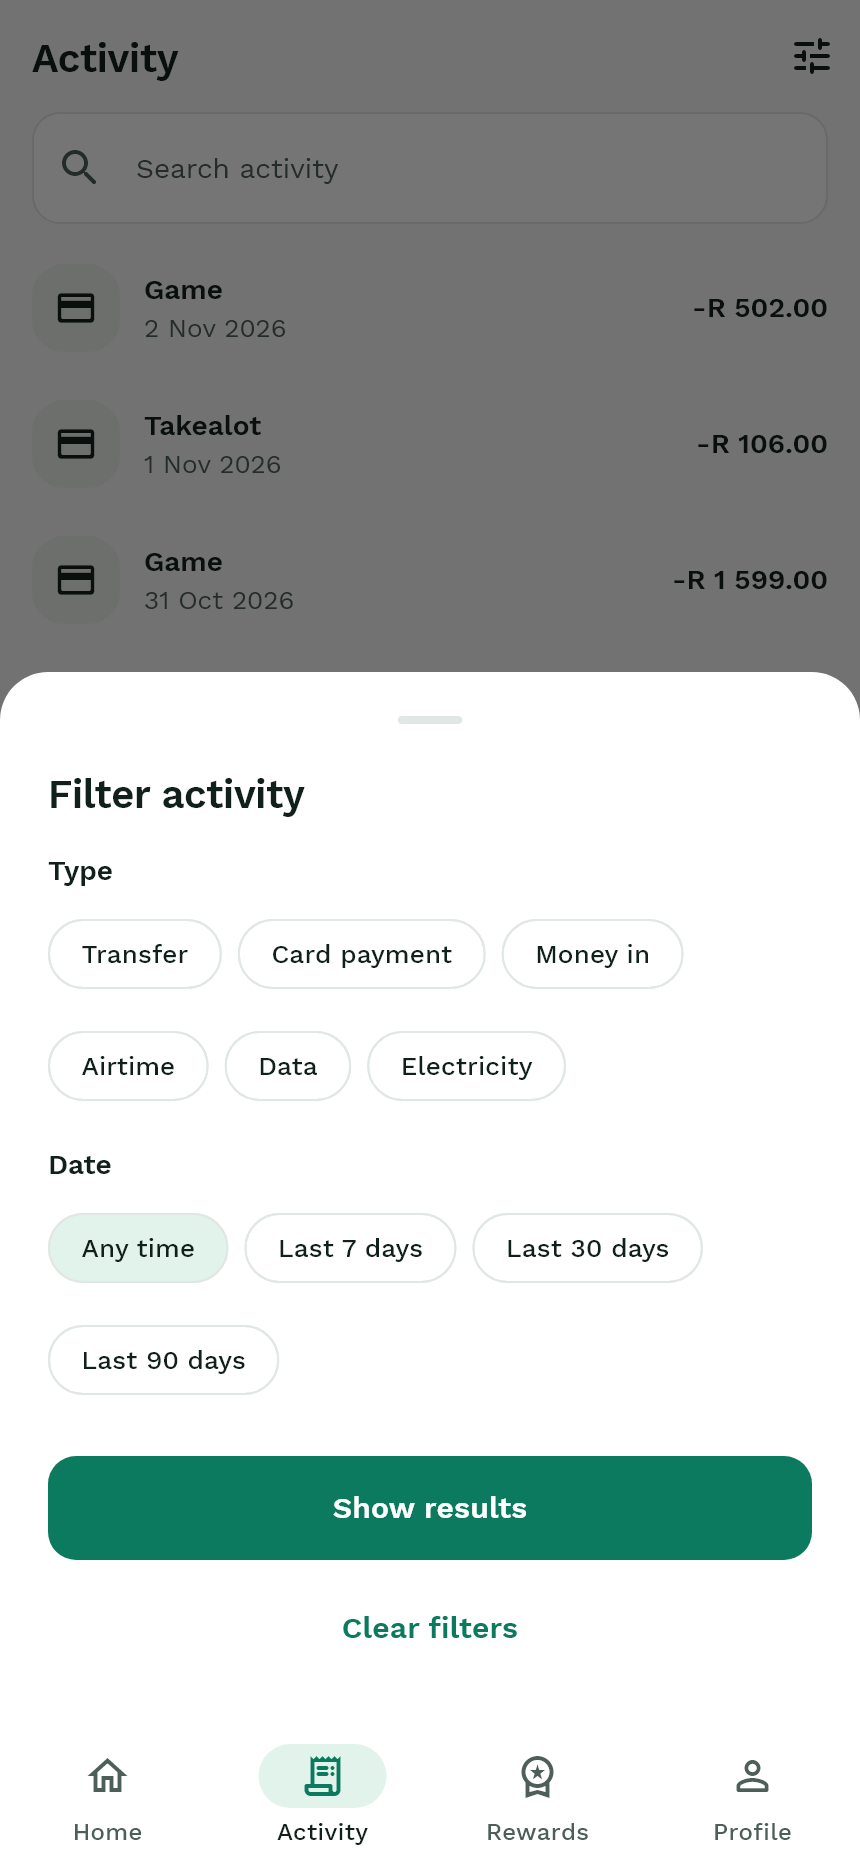
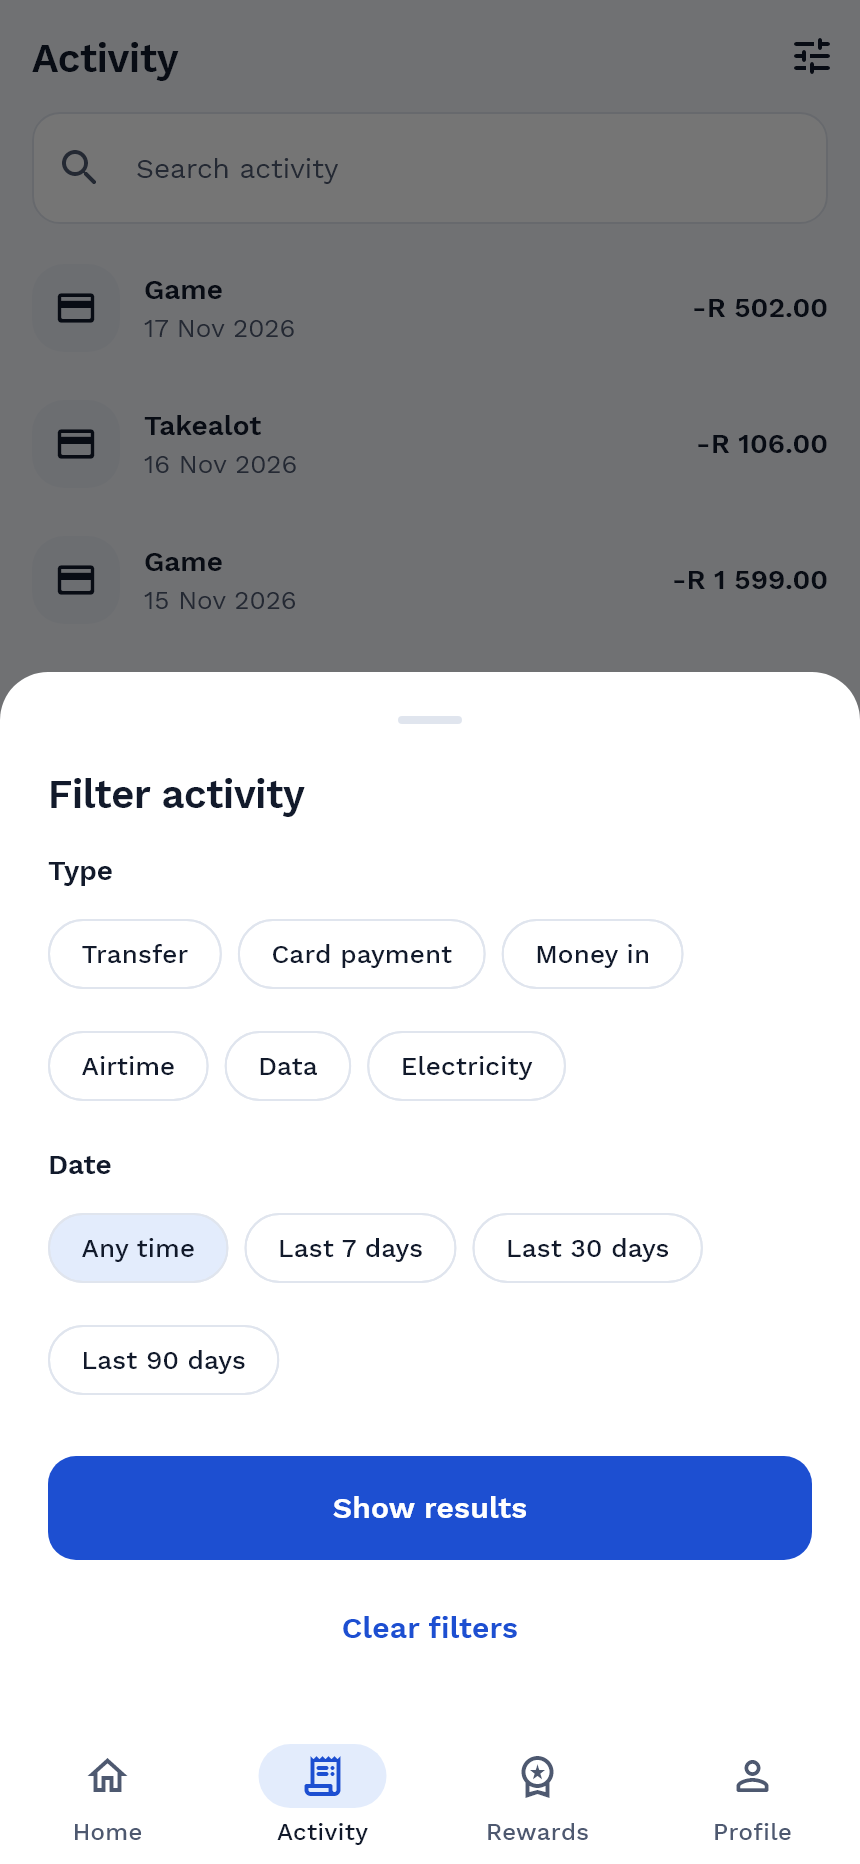
switch to blue theme

diff --git a/lib/core/theme/tokens.dart b/lib/core/theme/tokens.dart
@@ -1,27 +1,27 @@
 import 'package:flutter/material.dart';
 
 abstract final class AppPalette {
-  static const brand = Color(0xFF0B7A5E);
-  static const brandBright = Color(0xFF3FD3A6);
-  static const brandDeep = Color(0xFF07513F);
-  static const brandInk = Color(0xFF04322A);
-  static const brandTint = Color(0xFFE2F3EC);
+  static const brand = Color(0xFF1D4FD1);
+  static const brandBright = Color(0xFF6EA8FF);
+  static const brandDeep = Color(0xFF143A9E);
+  static const brandInk = Color(0xFF0A1F4D);
+  static const brandTint = Color(0xFFE3ECFC);
 
-  static const ink = Color(0xFF12201C);
-  static const inkSoft = Color(0xFF4E5F59);
-  static const inkFaint = Color(0xFF66766F);
-  static const line = Color(0xFFE1E7E3);
-  static const canvas = Color(0xFFF6F8F6);
+  static const ink = Color(0xFF121A2B);
+  static const inkSoft = Color(0xFF4E5970);
+  static const inkFaint = Color(0xFF66718A);
+  static const line = Color(0xFFE0E5EE);
+  static const canvas = Color(0xFFF5F7FB);
   static const paper = Color(0xFFFFFFFF);
-  static const mist = Color(0xFFEDF1EE);
+  static const mist = Color(0xFFECF0F7);
 
-  static const night = Color(0xFF0C1412);
-  static const nightRaised = Color(0xFF151F1C);
-  static const nightHigh = Color(0xFF1F2B27);
-  static const nightLine = Color(0xFF2C3A35);
-  static const moon = Color(0xFFEDF3F0);
-  static const moonSoft = Color(0xFFA9B8B2);
-  static const moonFaint = Color(0xFF8B9A94);
+  static const night = Color(0xFF0B1120);
+  static const nightRaised = Color(0xFF141B2D);
+  static const nightHigh = Color(0xFF1E2639);
+  static const nightLine = Color(0xFF2B3449);
+  static const moon = Color(0xFFECF0F8);
+  static const moonSoft = Color(0xFFA8B2C7);
+  static const moonFaint = Color(0xFF8A94AA);
 
   static const positive = Color(0xFF0B7A5E);
   static const positiveDark = Color(0xFF4FD8AE);
@@ -52,10 +52,10 @@ abstract final class AppRadii {
 
 abstract final class AppElevation {
   static const raised = [
-    BoxShadow(color: Color(0x14082019), blurRadius: 24, offset: Offset(0, 8)),
+    BoxShadow(color: Color(0x14081530), blurRadius: 24, offset: Offset(0, 8)),
   ];
   static const hero = [
-    BoxShadow(color: Color(0x33073F31), blurRadius: 32, offset: Offset(0, 16)),
+    BoxShadow(color: Color(0x330A2A73), blurRadius: 32, offset: Offset(0, 16)),
   ];
 }
 

diff --git a/lib/core/theme/wallet_colors.dart b/lib/core/theme/wallet_colors.dart
@@ -25,10 +25,10 @@ class WalletColors extends ThemeExtension<WalletColors> {
     faint: AppPalette.inkFaint,
     line: AppPalette.line,
     tile: AppPalette.mist,
-    skeleton: Color(0xFFE6EBE8),
-    skeletonHighlight: Color(0xFFF4F7F5),
+    skeleton: Color(0xFFE5E9F1),
+    skeletonHighlight: Color(0xFFF3F5FA),
     heroGradient: [AppPalette.brand, AppPalette.brandDeep],
-    savingsGradient: [Color(0xFF22332E), AppPalette.brandInk],
+    savingsGradient: [Color(0xFF222C42), AppPalette.brandInk],
   );
 
   static const dark = WalletColors(
@@ -39,10 +39,10 @@ class WalletColors extends ThemeExtension<WalletColors> {
     faint: AppPalette.moonFaint,
     line: AppPalette.nightLine,
     tile: AppPalette.nightHigh,
-    skeleton: Color(0xFF1C2724),
-    skeletonHighlight: Color(0xFF293632),
-    heroGradient: [Color(0xFF0C8467), AppPalette.brandInk],
-    savingsGradient: [Color(0xFF2A3A35), Color(0xFF131D1A)],
+    skeleton: Color(0xFF1B2335),
+    skeletonHighlight: Color(0xFF283147),
+    heroGradient: [Color(0xFF2160E0), AppPalette.brandInk],
+    savingsGradient: [Color(0xFF283249), Color(0xFF121A2B)],
   );
 
   final Color positive;

diff --git a/lib/core/theme/app_theme.dart b/lib/core/theme/app_theme.dart
@@ -31,7 +31,7 @@ abstract final class AppTheme {
       brightness: Brightness.dark,
       primary: AppPalette.brandBright,
       onPrimary: AppPalette.brandInk,
-      primaryContainer: Color(0xFF103A30),
+      primaryContainer: Color(0xFF16295A),
       onPrimaryContainer: AppPalette.moon,
       secondary: AppPalette.moonSoft,
       onSecondary: AppPalette.night,

diff --git a/README.md b/README.md
@@ -3,8 +3,8 @@
 > **This is a demo app built for my portfolio, not a real banking product.** No accounts, money or personal data are real, and it doesn't connect to a bank.
 
 [![CI](https://github.com/AzTheProgrammer/wallet-demo-app/actions/workflows/ci.yml/badge.svg)](https://github.com/AzTheProgrammer/wallet-demo-app/actions/workflows/ci.yml)
-![Flutter](https://img.shields.io/badge/Flutter-3.35-0B7A5E)
-![License](https://img.shields.io/badge/license-MIT-0B7A5E)
+![Flutter](https://img.shields.io/badge/Flutter-3.35-1D4FD1)
+![License](https://img.shields.io/badge/license-MIT-1D4FD1)
 
 A South African banking wallet built with Flutter: pay people, buy airtime, data and prepaid electricity, and redeem rewards. No real money moves. Everything runs on in-app mock data behind the same interfaces a real API will use.
 
